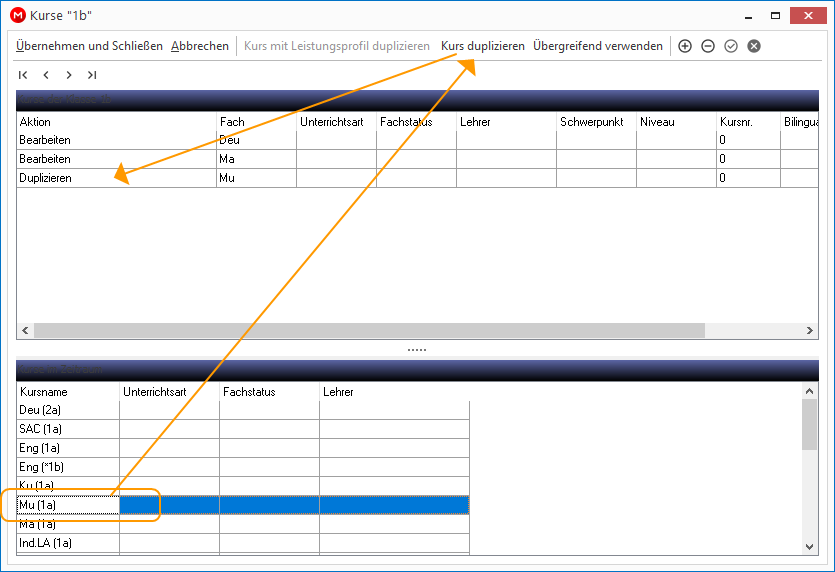
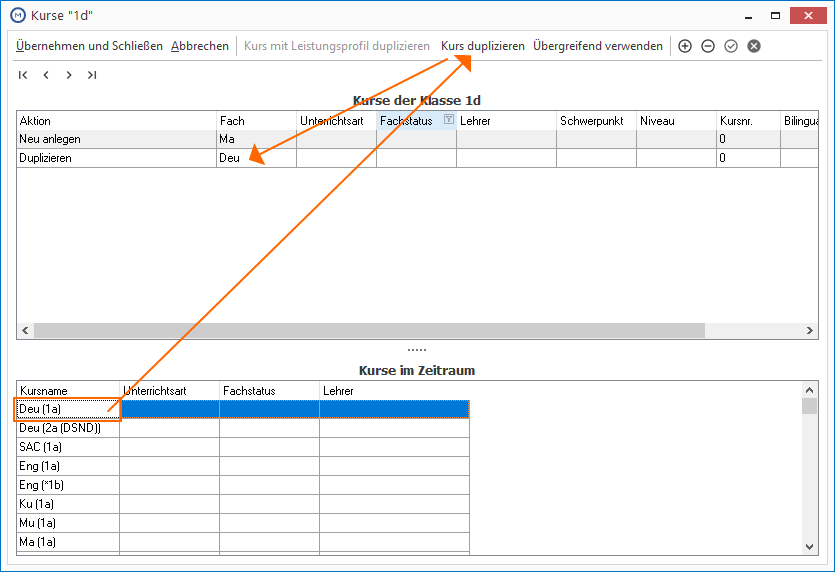
no message

diff --git a/docs/schulverwaltung/howto/enbrea.leistungen.md b/docs/schulverwaltung/howto/enbrea.leistungen.md
@@ -23,6 +23,7 @@
 [37]:/assets/images/enbrea.leistungen/37.png
 [38]:/assets/images/enbrea.leistungen/38.png
 [39]:/assets/images/enbrea.leistungen/39.png
+[40]:/assets/images/enbrea.leistungen/40.png
 
 # ENBREA Leistungen
 
@@ -196,7 +197,7 @@ interner Code| derzeit nicht in Benutzung
 
 [![Bewertungseinträge][36]][36]
 
-### Schlüsselverzeinis > Notentypen
+### Schlüsselverzeichnis > Notentypen
 
 [![`Schlüsselverzeichnis > Notentypen`][10]][10]
 
@@ -237,11 +238,13 @@ Sie können auch Kurse im Zeitraum über den Aufruf `Kurs duplizieren` als Kurs 
 
 !!! info "Hinweis"
     
-    Sie können auch mehrere Kurse in einem Schritt duplizieren. Markieren Sie über `Strg + linke Maustaste` die gewünschte Kurse und wählen Sie dann den Aufruf `Kurs duplizieren`.
+    Sie können auch mehrere Kurse in einem Schritt duplizieren. Markieren Sie über `Strg + linke Maustaste` die gewünschten Kurse und wählen Sie dann den Aufruf `Kurs duplizieren`.
+
+[![mehrere Kurse duplizieren][40]][40]    
 
 ### Kurse mit Leistungprofil duplizieren
 
-
+...
 
 ### Übergreifend verwenden
 
